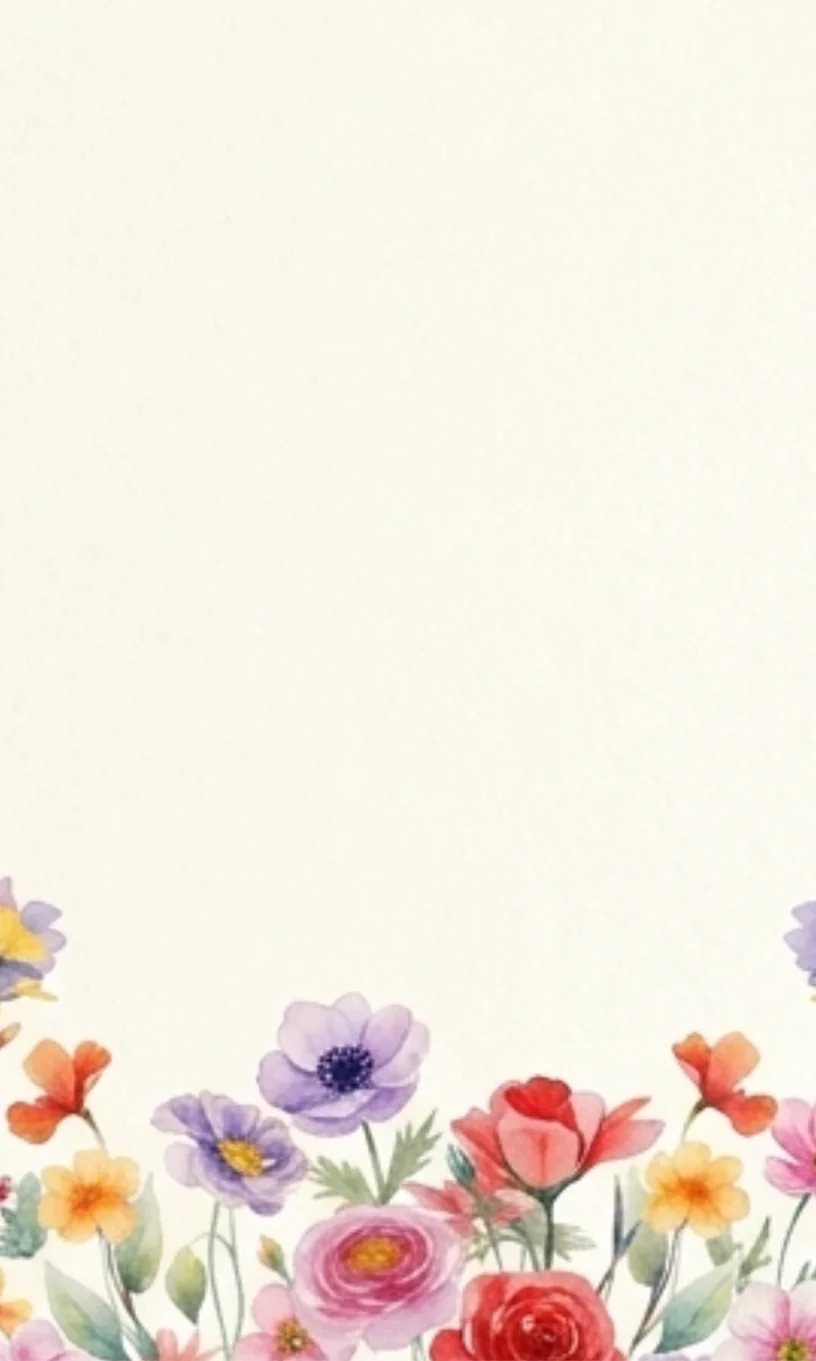
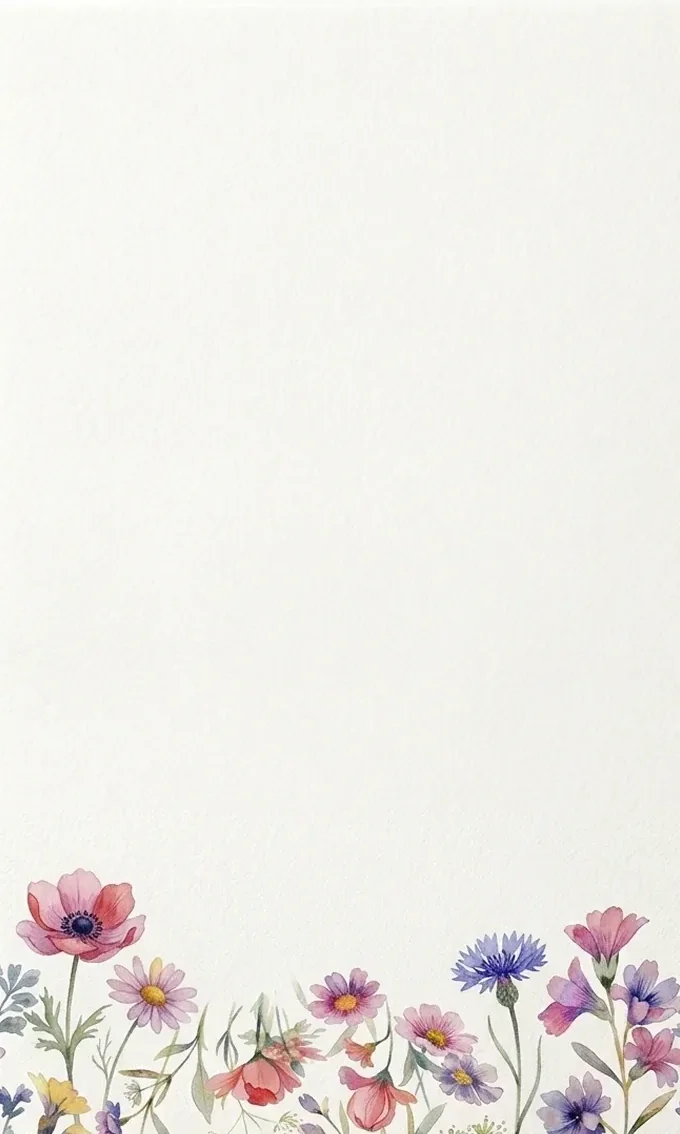
Card 2: new sheet background, large arch photo, date block + save the date; invitation text moves to card 4

Changed region(s): [[0.0, 0.6481, 1.0, 1.0], [0.9574, 0.6481, 1.0, 0.7407]]

diff --git a/app/globals.css b/app/globals.css
@@ -23,13 +23,10 @@ body { background: var(--background); color: var(--foreground); font-family: var
 .inv .small { font-size:22px; letter-spacing:.12em; text-transform:uppercase; }
 .inv .caps { font-size:13px; letter-spacing:.28em; text-transform:uppercase; }
 .inv .tiny { font-size:10.5px; letter-spacing:.24em; }
-.inv .month { font-size:15px; letter-spacing:.3em; margin-top:2px; }
 .inv .names { display:flex; flex-direction:column; align-items:center; font-family:var(--font-script),cursive; font-weight:400; font-size:54px; line-height:1.05; color:var(--ink); }
 .inv .amp { font-size:34px; color:var(--gold); }
 .inv .arch { width:62%; aspect-ratio:3/4; object-fit:cover; border-radius:999px 999px 6px 6px; border:1px solid var(--gold); padding:5px; background:var(--paper); }
 .inv .arch-empty { display:flex; align-items:center; justify-content:center; color:var(--gold); font-size:13px; letter-spacing:.2em; text-transform:uppercase; }
-.inv .datebar { display:flex; align-items:center; gap:12px; font-size:11px; letter-spacing:.2em; }
-.inv .datebar b { font-size:28px; font-weight:500; padding:0 12px; border-left:1px solid var(--gold); border-right:1px solid var(--gold); }
 .inv .script { font-family:var(--font-script),cursive; font-weight:400; font-size:44px; color:var(--gold); }
 .inv .script.big { font-size:46px; color:var(--dark-ink); line-height:1.1; }
 .inv .title { font-size:40px; letter-spacing:.14em; text-transform:uppercase; line-height:1.15; font-weight:400; }
@@ -127,7 +124,23 @@ body { background: var(--background); color: var(--foreground); font-family: var
   background:linear-gradient(135deg,#e6cd82 0%,#a9812f 52%,#dcbf6c 100%); -webkit-background-clip:text; background-clip:text; -webkit-text-fill-color:transparent; }
 .inv .monogram .amp { font-size:.6em; color:inherit; }
 
-/* ───────── Card 2: invitation text on the watercolour sheet, arch photo above ───────── */
-.inv .card-sheet { background:#fbf7ee url(/templates/sage-story/v1/page-bg.webp) center bottom / cover no-repeat; justify-content:center; gap:20px; padding:26px 24px 41%; }
-.inv .card-sheet .arch { width:46%; background:#fffdf8; }
-.inv .card-sheet .small { font-size:16px; letter-spacing:.16em; line-height:1.65; max-width:15em; }
+
+/* ───────── Card 2: arch photo, date, "save the date" on the watercolour sheet ─────────
+   Sizes use container units (cqw / cqh = % of the card) so it scales on any phone width.
+   The sheet's flowers start ~77% down the card, so everything fits above them. */
+.inv .card-sheet { container-type:size; background:#fbf9f3 url(/templates/sage-story/v1/page-bg.webp) center bottom / cover no-repeat; padding:0; justify-content:flex-start; }
+/* cq units only work on descendants of the container, hence the inner wrapper */
+.inv .sheet-in { width:100%; height:100%; display:flex; flex-direction:column; align-items:center; justify-content:flex-start; gap:2cqh; padding:4cqh 7cqw 0; }
+.inv .card-sheet .arch { height:48cqh; width:auto; aspect-ratio:3/4; background:#fffdf8; flex:none; }
+.inv .dt { display:flex; flex-direction:column; align-items:center; gap:.9cqh; color:#6d6358; }
+.inv .dt-month, .inv .dt-year { font-size:3.5cqw; letter-spacing:.26em; text-transform:uppercase; padding-left:.26em; }
+.inv .dt-row { display:flex; align-items:center; gap:3.2cqw; font-size:3.4cqw; letter-spacing:.2em; text-transform:uppercase; }
+.inv .dt-row b { font-weight:500; font-size:8.8cqw; letter-spacing:0; line-height:1.15; padding:0 3cqw; border-left:1px solid rgba(90,80,70,.55); border-right:1px solid rgba(90,80,70,.55); }
+.inv .dt-row b:last-child { border-right:0; padding-right:0; }
+.inv .save { font-family:var(--font-script),cursive; font-size:8.6cqw; line-height:1.1; color:var(--gold); margin-top:.4cqh; }
+/* no photo uploaded (published view): centre the date block in the space above the flowers */
+.inv .sheet-in.no-photo { justify-content:center; gap:3cqh; padding:0 7cqw 24cqh; }
+.inv .sheet-in.no-photo .dt-month, .inv .sheet-in.no-photo .dt-year { font-size:4cqw; }
+.inv .sheet-in.no-photo .dt-row { font-size:3.8cqw; }
+.inv .sheet-in.no-photo .dt-row b { font-size:11cqw; }
+.inv .sheet-in.no-photo .save { font-size:10.5cqw; }

diff --git a/app/editor/[id]/EditorForm.tsx b/app/editor/[id]/EditorForm.tsx
@@ -205,8 +205,8 @@ export function EditorForm({ id, title, slug, status: initialStatus, features, i
             <Field label="Line under the envelope"><input className={inputCls} maxLength={40} {...tp("coverBottom")} /></Field>
           </Section>
 
-          <Section n={2} title="Card 2 · Photo & invitation text">
-            <p className="text-sm text-stone-700">Photo (shown in an arch above the text)</p>
+          <Section n={2} title="Card 2 · Photo, date & save the date">
+            <p className="text-sm text-stone-700">Photo (shown in an arch)</p>
             <input type="file" accept="image/jpeg,image/png,image/webp" onChange={(e) => void onPhoto(e.target.files?.[0])} className="text-sm" />
             {draft.photo && (
               <>
@@ -214,7 +214,11 @@ export function EditorForm({ id, title, slug, status: initialStatus, features, i
                 <button type="button" onClick={() => set("photo", null)} className="text-xs text-red-700 underline">Remove photo</button>
               </>
             )}
-            <Field label="Invitation text"><input className={inputCls} maxLength={80} {...tp("invited")} /></Field>
+            <div className="grid grid-cols-2 gap-3">
+              <Field label="Date"><input type="date" className={inputCls} value={draft.event.date} onChange={(e) => set("event", { ...draft.event, date: e.target.value })} /></Field>
+              <Field label="Time (e.g. 2:00 PM)"><input className={inputCls} maxLength={30} value={draft.event.time} onChange={(e) => set("event", { ...draft.event, time: e.target.value })} /></Field>
+            </div>
+            <Field label="Text under the date"><input className={inputCls} maxLength={40} {...tp("saveTheDate")} /></Field>
           </Section>
 
           <Section n={3} title="Card 3 · Names">
@@ -222,13 +226,10 @@ export function EditorForm({ id, title, slug, status: initialStatus, features, i
             <p className="text-xs text-stone-500">The names shown here are the ones you enter in Card 1.</p>
           </Section>
 
-          <Section n={4} title="Card 4 · Date">
-            <Field label="Line above the date"><input className={inputCls} maxLength={80} {...tp("celebration")} /></Field>
-            <div className="grid grid-cols-2 gap-3">
-              <Field label="Date"><input type="date" className={inputCls} value={draft.event.date} onChange={(e) => set("event", { ...draft.event, date: e.target.value })} /></Field>
-              <Field label="Time (e.g. 2:00 PM)"><input className={inputCls} maxLength={30} value={draft.event.time} onChange={(e) => set("event", { ...draft.event, time: e.target.value })} /></Field>
-            </div>
-            <Field label="Line below the date"><input className={inputCls} maxLength={80} {...tp("receptionNote")} /></Field>
+          <Section n={4} title="Card 4 · Invitation text">
+            <Field label="Small line above"><input className={inputCls} maxLength={80} {...tp("celebration")} /></Field>
+            <Field label="Invitation text"><input className={inputCls} maxLength={80} {...tp("invited")} /></Field>
+            <Field label="Small line below"><input className={inputCls} maxLength={80} {...tp("receptionNote")} /></Field>
           </Section>
 
           <Section n={5} title="Card 5 · Timeline">

diff --git a/components/invitation/Invitation.tsx b/components/invitation/Invitation.tsx
@@ -29,6 +29,21 @@ function parts(iso: string) {
   return { month: MONTHS[dt.getUTCMonth()], weekday: DAYS[dt.getUTCDay()], day: String(+m[3]), year: m[1], dt };
 }
 
+/** Month / WEEKDAY | day | AT time / year — the format of the reference design. */
+function DateBlock({ d, time }: { d: NonNullable<ReturnType<typeof parts>>; time: string }) {
+  return (
+    <div className="dt">
+      <span className="dt-month">{d.month}</span>
+      <span className="dt-row">
+        <span>{d.weekday}</span>
+        <b>{d.day}</b>
+        {time && <span>AT {time.toUpperCase()}</span>}
+      </span>
+      <span className="dt-year">{d.year}</span>
+    </div>
+  );
+}
+
 function longDate(iso: string) {
   const p = parts(iso);
   return p ? `${p.month[0]}${p.month.slice(1).toLowerCase()} ${p.day}, ${p.year}` : "";
@@ -72,13 +87,20 @@ export function Invitation({
       {/* 2 — invited (the envelope overlay sits on top of this card until opened) */}
       <div className="stage">
         <section className="card card-sheet" data-card="2" tabIndex={-1}>
-          {c.photo ? (
-            // eslint-disable-next-line @next/next/no-img-element
-            <img className="arch" src={c.photo.url} alt={c.photo.alt || `${first} and ${second}`} />
-          ) : ph ? (
-            <div className="arch arch-empty">Photo</div>
-          ) : null}
-          <p className="small">{c.texts.invited || "you are cordially invited to our wedding"}</p>
+          <div className={c.photo || ph ? "sheet-in" : "sheet-in no-photo"}>
+            {c.photo ? (
+              // eslint-disable-next-line @next/next/no-img-element
+              <img className="arch" src={c.photo.url} alt={c.photo.alt || `${first} and ${second}`} />
+            ) : ph ? (
+              <div className="arch arch-empty">Photo</div>
+            ) : null}
+            {d ? (
+              <DateBlock d={d} time={c.event.time} />
+            ) : ph ? (
+              <div className="dt"><span className="dt-month">Date</span></div>
+            ) : null}
+            {(d || ph) && c.texts.saveTheDate && <p className="save">{c.texts.saveTheDate}</p>}
+          </div>
         </section>
         {envelope}
       </div>
@@ -94,19 +116,10 @@ export function Invitation({
         </h1>
       </section>
 
-      {/* 4 — date */}
+      {/* 4 — invitation text */}
       <section className="card" data-card="4">
-        <p className="caps tiny">{c.texts.celebration}</p>
-        {d ? (
-          <>
-            <p className="caps month">{d.month}</p>
-            <p className="datebar">
-              <span>{d.weekday}</span>
-              <b>{d.day}</b>
-              <span>{c.event.time ? `AT ${c.event.time.toUpperCase()}` : d.year}</span>
-            </p>
-          </>
-        ) : ph ? <p className="caps month">Date</p> : null}
+        {c.texts.celebration && <p className="caps tiny">{c.texts.celebration}</p>}
+        <p className="small">{c.texts.invited || "you are cordially invited to our wedding"}</p>
         {c.texts.receptionNote && <p className="caps tiny">{c.texts.receptionNote}</p>}
       </section>
 

diff --git a/lib/content/schema.ts b/lib/content/schema.ts
@@ -33,6 +33,7 @@ export const contentSchema = z.object({
     timelineTitle: text(30).default("timeline"),
     rsvpTitle: text(30).default("please RSVP"),
     closing: text(60).default(""),
+    saveTheDate: text(40).default("save the date"),
     coverTop: text(40).default("the wedding of"),
     coverBottom: text(40).default("you are invited"),
   }),
@@ -54,11 +55,12 @@ export const defaultContent: Content = {
   texts: {
     invited: "you are cordially invited to our wedding",
     headline: "We're getting married",
-    celebration: "In celebration of our wedding",
+    celebration: "with joy in our hearts",
     receptionNote: "Reception to follow",
     timelineTitle: "timeline",
     rsvpTitle: "please RSVP",
     closing: "",
+    saveTheDate: "save the date",
     coverTop: "the wedding of",
     coverBottom: "you are invited",
   },
